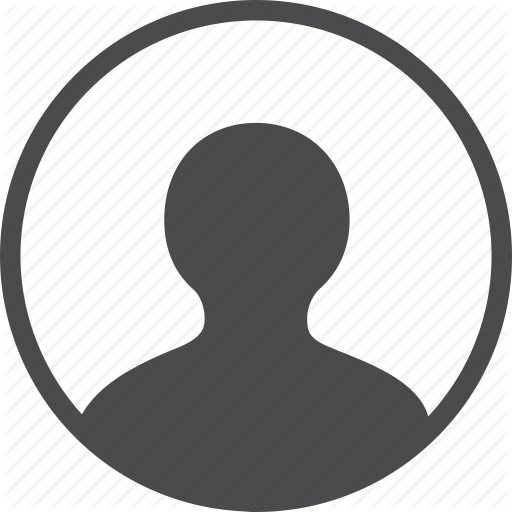
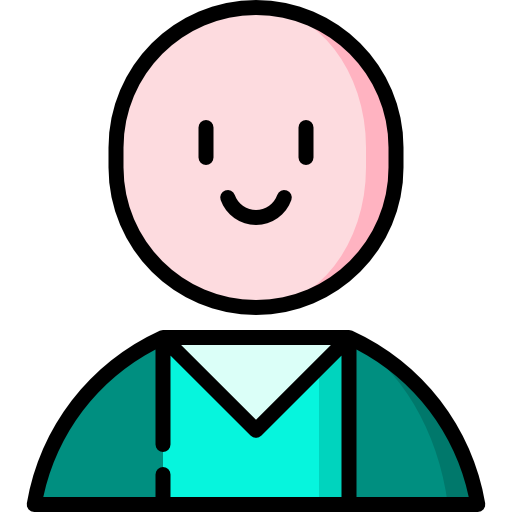
change photo, and add reselect npm

diff --git a/src/components/ProfilePage/MainInfo/MainInfo.js b/src/components/ProfilePage/MainInfo/MainInfo.js
@@ -2,6 +2,7 @@ import React from 'react';
 import s from './MainInfo.module.css';
 import Preloader from "../../Preloader/Preloader";
 import ProfileStatusWithHooks from "./ProfileStatus/ProfileStatusWithHooks";
+import userPhoto from '../../../image/user.png';
 
 const MainInfo = ({profile, status, updateStatus}) => {
 
@@ -17,7 +18,7 @@ const MainInfo = ({profile, status, updateStatus}) => {
             <div className={s.mainInfo__userBlock}>
                 <div>
                     {/*adding user avatar is null*/}
-                    <img src={profile.photos.small != null ? profile.photos.small : ''}/>
+                    <img src={profile.photos.small != null ? profile.photos.small : userPhoto}/>
                 </div>
                 <ProfileStatusWithHooks status={status} updateStatus={updateStatus}/>
             </div>

diff --git a/src/Redux/users-selectors.js b/src/Redux/users-selectors.js
@@ -1,4 +1,4 @@
-import {createSelector} from "reselect";
+import {createSelector} from 'reselect';
 
 //user selector and reselect
 const getUsersSelector = (state) => {
